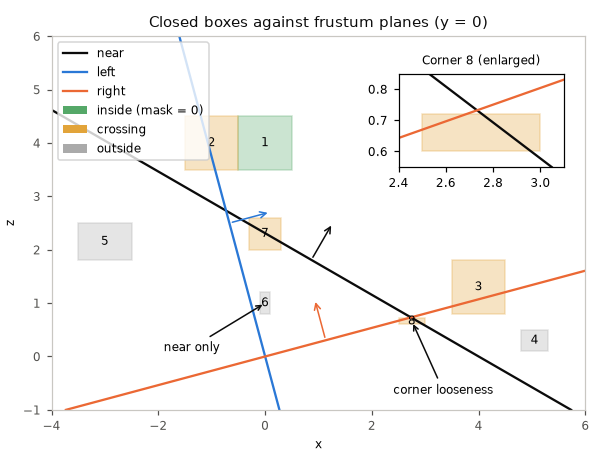
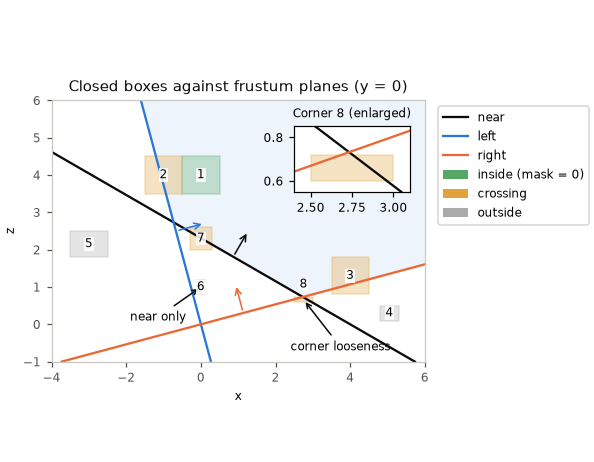
math: tighten mesh layout checks and clarify geometry figures

diff --git a/launcher/tools/math/geometry_figures.py b/launcher/tools/math/geometry_figures.py
@@ -220,15 +220,20 @@ def frustum_figure(data, output):
 BOX_COLORS = ("#55a868", "#e2a43a", "#aaaaaa")
 BOX_X_LIMITS = (-4, 6)
 BOX_Z_LIMITS = (-1, 6)
-QUERY_LABEL_OFFSET = (4, 6)
 BOX_FIGURE_SCALE = (1.8, 1.4)
 CORNER_INSET = (0.65, 0.65, 0.31, 0.25)
 CORNER_X_LIMITS = (2.4, 3.1)
 CORNER_Z_LIMITS = (0.55, 0.85)
-QUERY_LEFT_X_LIMITS = (-1.6, 4)
+FRUSTUM_GRID_SAMPLES = 401
+FRUSTUM_SHADE_ALPHA = 0.08
+BOX_CORNER_NUMBER_OFFSET = (0, 10)
+BOX_NUMBER_BACKGROUND = dict(facecolor="white", edgecolor="none", alpha=0.85, pad=0.5)
+QUERY_FIGURE_SCALE = (1.4, 1.7)
+QUERY_SEGMENT_LABELS = ((-3, -2), (0.6, -3.1), (2.5, -2), (-2.8, 3.1))
+QUERY_LEFT_X_LIMITS = (-1.8, 4.6)
 QUERY_LEFT_Z_LIMITS = (-3, 3.4)
 QUERY_RIGHT_X_LIMITS = (-3.5, 5.5)
-QUERY_RIGHT_Z_LIMITS = (-3, 3)
+QUERY_RIGHT_Z_LIMITS = (-4.5, 4.5)
 
 
 def draw_box(axis, bounds, color=SHAPE_FILL, label=None):
@@ -242,6 +247,11 @@ def box_frustum_figure(data, output):
     square_axes(axis, "Closed boxes against frustum planes (y = 0)")
     axis.set_xlim(*BOX_X_LIMITS)
     axis.set_ylim(*BOX_Z_LIMITS)
+    x, z = np.meshgrid(np.linspace(*BOX_X_LIMITS, FRUSTUM_GRID_SAMPLES),
+                       np.linspace(*BOX_Z_LIMITS, FRUSTUM_GRID_SAMPLES))
+    inside_distance = np.minimum.reduce([a * x + c * z + d for a, _, c, d in data["planes"][:3]])
+    axis.contourf(x, z, inside_distance, levels=[0, inside_distance.max()],
+                  colors=[SHAPE_FILL], alpha=FRUSTUM_SHADE_ALPHA)
     for plane, name, color in zip(data["planes"][:3], PLANE_NAMES[:3], PLANE_COLORS[:3]):
         zero_line(axis, plane, 0, color, name)
     for index, (bounds, outside, mask) in enumerate(data["boxes"]):
@@ -249,7 +259,9 @@ def box_frustum_figure(data, output):
         draw_box(axis, bounds, color)
         lo, hi = np.array(bounds)[:, [0, 2]]
         middle = (lo + hi) / 2
-        axis.annotate(str(index + 1), middle, ha="center", va="center", fontsize=LABEL_SIZE)
+        axis.annotate(str(index + 1), middle, xytext=BOX_CORNER_NUMBER_OFFSET if index == len(data["boxes"]) - 1 else (0, 0),
+                      textcoords="offset points", ha="center", va="center", fontsize=LABEL_SIZE,
+                      bbox=BOX_NUMBER_BACKGROUND, zorder=4)
     axis.annotate("near only", (0, 1), xytext=(-1.9, 0.1), fontsize=LABEL_SIZE,
                   arrowprops=dict(arrowstyle="->", color=INK))
     axis.annotate("corner looseness", (2.75, 0.66), xytext=(2.4, -0.7), fontsize=LABEL_SIZE,
@@ -265,7 +277,7 @@ def box_frustum_figure(data, output):
     handles, _ = axis.get_legend_handles_labels()
     handles.extend(Patch(facecolor=color, label=label) for color, label in
                    zip(BOX_COLORS, ("inside (mask = 0)", "crossing", "outside")))
-    axis.legend(handles=handles, fontsize=LABEL_SIZE, loc="upper left")
+    axis.legend(handles=handles, fontsize=LABEL_SIZE, loc="upper left", bbox_to_anchor=(1.02, 1))
     axis.set_xlabel("x", fontsize=LABEL_SIZE)
     axis.set_ylabel("z", fontsize=LABEL_SIZE)
     save(figure, output)
@@ -273,6 +285,7 @@ def box_frustum_figure(data, output):
 
 def sphere_queries_figure(data, output):
     figure, (left, right) = panels()
+    figure.set_size_inches(PANEL_SIZE * PANELS * QUERY_FIGURE_SCALE[0], PANEL_SIZE * QUERY_FIGURE_SCALE[1])
     for axis, title in ((left, "Sphere / box closest points"), (right, "Segment entry parameters")):
         square_axes(axis, title)
         draw_box(axis, data["box"], label="box")
@@ -287,7 +300,7 @@ def sphere_queries_figure(data, output):
         left.scatter(*closest, color=color, s=POINT_SIZE)
     centre, radius = data["segment_sphere"]
     right.add_patch(Circle(np.array(centre)[[0, 2]], radius, fill=False, edgecolor=POINT, label="sphere"))
-    for a, c, results in data["segments"]:
+    for (a, c, results), label_position in zip(data["segments"], QUERY_SEGMENT_LABELS):
         line = np.array([a, c])[:, [0, 2]]
         right.plot(*line.T, color=MUTED, linestyle="--" if not any(r[0] for r in results) else "-")
         for target, (hit, t, point) in enumerate(results):
@@ -295,14 +308,20 @@ def sphere_queries_figure(data, output):
                 point = np.array(point)[[0, 2]]
                 color = SHAPE_FILL if target == 0 else POINT
                 right.scatter(*point, color=color, s=POINT_SIZE, zorder=3)
-                right.annotate(f"t = {t:.3g}", point, xytext=QUERY_LABEL_OFFSET,
-                               textcoords="offset points", fontsize=LABEL_SIZE, color=color)
+                label = "inside start" if t == 0 else "hit"
+                right.annotate(f"{label}: t = {t:.3g}", point, xytext=label_position,
+                               fontsize=LABEL_SIZE, color=color,
+                               arrowprops=dict(arrowstyle="->", color=color))
+        if not any(result[0] for result in results):
+            right.annotate("miss", line.mean(axis=0), xytext=label_position, fontsize=LABEL_SIZE,
+                           color=MUTED, arrowprops=dict(arrowstyle="->", color=MUTED))
     left.set_xlim(*QUERY_LEFT_X_LIMITS)
     left.set_ylim(*QUERY_LEFT_Z_LIMITS)
     right.set_xlim(*QUERY_RIGHT_X_LIMITS)
     right.set_ylim(*QUERY_RIGHT_Z_LIMITS)
     for axis in (left, right):
-        axis.legend(fontsize=LABEL_SIZE, loc="lower left")
+        axis.set_box_aspect(1)
+        axis.legend(fontsize=LABEL_SIZE, loc="upper center", bbox_to_anchor=(0.5, -0.13), ncol=2)
     save(figure, output)
 
 

diff --git a/launcher/main/render/r3d_lit_mesh.h b/launcher/main/render/r3d_lit_mesh.h
@@ -13,7 +13,6 @@
 #pragma once
 
 #include <stdbool.h>
-#include <stddef.h>
 #include <stdint.h>
 
 #include "asset/asset_pack.h"
@@ -32,24 +31,6 @@ typedef struct {
     uint8_t count;  /* children, or a leaf's clusters */
     bool leaf;
 } r3d_lit_node_t;
-
-/* Asset records are read in place; these offsets are the packed file contract. */
-_Static_assert(sizeof(r3d_lit_cluster_t) == 22, "r3d_lit_cluster_t asset size");
-_Static_assert(offsetof(r3d_lit_cluster_t, vertex_first) == 0, "r3d_lit_cluster_t vertex_first asset offset");
-_Static_assert(offsetof(r3d_lit_cluster_t, vertex_count) == 2, "r3d_lit_cluster_t vertex_count asset offset");
-_Static_assert(offsetof(r3d_lit_cluster_t, triangle_first) == 4, "r3d_lit_cluster_t triangle_first asset offset");
-_Static_assert(offsetof(r3d_lit_cluster_t, triangle_count) == 6, "r3d_lit_cluster_t triangle_count asset offset");
-_Static_assert(offsetof(r3d_lit_cluster_t, bounds) == 8, "r3d_lit_cluster_t bounds asset offset");
-_Static_assert(offsetof(r3d_lit_cluster_t, bounds.lo) == 8, "r3d_lit_cluster_t bounds.lo asset offset");
-_Static_assert(offsetof(r3d_lit_cluster_t, bounds.hi) == 14, "r3d_lit_cluster_t bounds.hi asset offset");
-_Static_assert(offsetof(r3d_lit_cluster_t, double_sided) == 20, "r3d_lit_cluster_t double_sided asset offset");
-_Static_assert(sizeof(r3d_lit_node_t) == 16, "r3d_lit_node_t asset size");
-_Static_assert(offsetof(r3d_lit_node_t, bounds) == 0, "r3d_lit_node_t bounds asset offset");
-_Static_assert(offsetof(r3d_lit_node_t, bounds.lo) == 0, "r3d_lit_node_t bounds.lo asset offset");
-_Static_assert(offsetof(r3d_lit_node_t, bounds.hi) == 6, "r3d_lit_node_t bounds.hi asset offset");
-_Static_assert(offsetof(r3d_lit_node_t, first) == 12, "r3d_lit_node_t first asset offset");
-_Static_assert(offsetof(r3d_lit_node_t, count) == 14, "r3d_lit_node_t count asset offset");
-_Static_assert(offsetof(r3d_lit_node_t, leaf) == 15, "r3d_lit_node_t leaf asset offset");
 
 typedef struct {
     const int16_t (*positions)[3];  /* ticks; position_scale ticks per model unit */

diff --git a/launcher/test/suites/suite_r3d_lit.c b/launcher/test/suites/suite_r3d_lit.c
@@ -299,7 +299,7 @@ test_a_tiny_triangle_takes_the_average_of_its_corners(void) {
     for (int i = 0; i < W * H; i++) {
         if (depth[i] != 0) {
             TEST_ASSERT_EQUAL_HEX16(GFX_RGB(0x555555), color[i]);
-            TEST_ASSERT_UINT16_WITHIN(1, 32767, depth[i]);
+            TEST_ASSERT_UINT16_WITHIN(1, R3D_DEPTH_NEAREST / 2, depth[i]);
         }
     }
 }
@@ -1044,8 +1044,8 @@ screen_mesh(screen_mesh_t* m, int vertices, int triangles) {
         m->colors[v][0] = m->colors[v][1] = m->colors[v][2] = 200;
     }
     m->cluster = (r3d_lit_cluster_t){
-        0, (uint16_t)vertices, 0, (uint16_t)triangles, {{-32767, -32767, -8}, {32767, 32767, 8}}, true};
-    m->node = (r3d_lit_node_t){{{-32767, -32767, -8}, {32767, 32767, 8}}, 0, 1, true};
+        0, (uint16_t)vertices, 0, (uint16_t)triangles, {{-INT16_MAX, -INT16_MAX, -8}, {INT16_MAX, INT16_MAX, 8}}, true};
+    m->node = (r3d_lit_node_t){{{-INT16_MAX, -INT16_MAX, -8}, {INT16_MAX, INT16_MAX, 8}}, 0, 1, true};
     return (r3d_lit_mesh_t){.positions = m->positions,
                             .colors = m->colors,
                             .triangles = m->triangles,

diff --git a/launcher/main/render/r3d_lit_mesh.c b/launcher/main/render/r3d_lit_mesh.c
@@ -6,6 +6,14 @@
 #include "asset/asset_bytes.h"
 #include "asset/asset_entry.h"
 
+/* The entry's bytes are the structs' own layout, written by lit_mesh.py. */
+_Static_assert(sizeof(r3d_lit_cluster_t) == 22 && offsetof(r3d_lit_cluster_t, bounds) == 8
+                   && offsetof(r3d_lit_cluster_t, double_sided) == 20,
+               "r3d_lit_cluster_t is not the layout lit_mesh.py writes");
+_Static_assert(sizeof(r3d_lit_node_t) == 16 && offsetof(r3d_lit_node_t, first) == 12
+                   && offsetof(r3d_lit_node_t, leaf) == 15,
+               "r3d_lit_node_t is not the layout lit_mesh.py writes");
+
 enum {
     HEADER_WORDS = 11,
     ENTRY_ALIGNMENT = 4,
